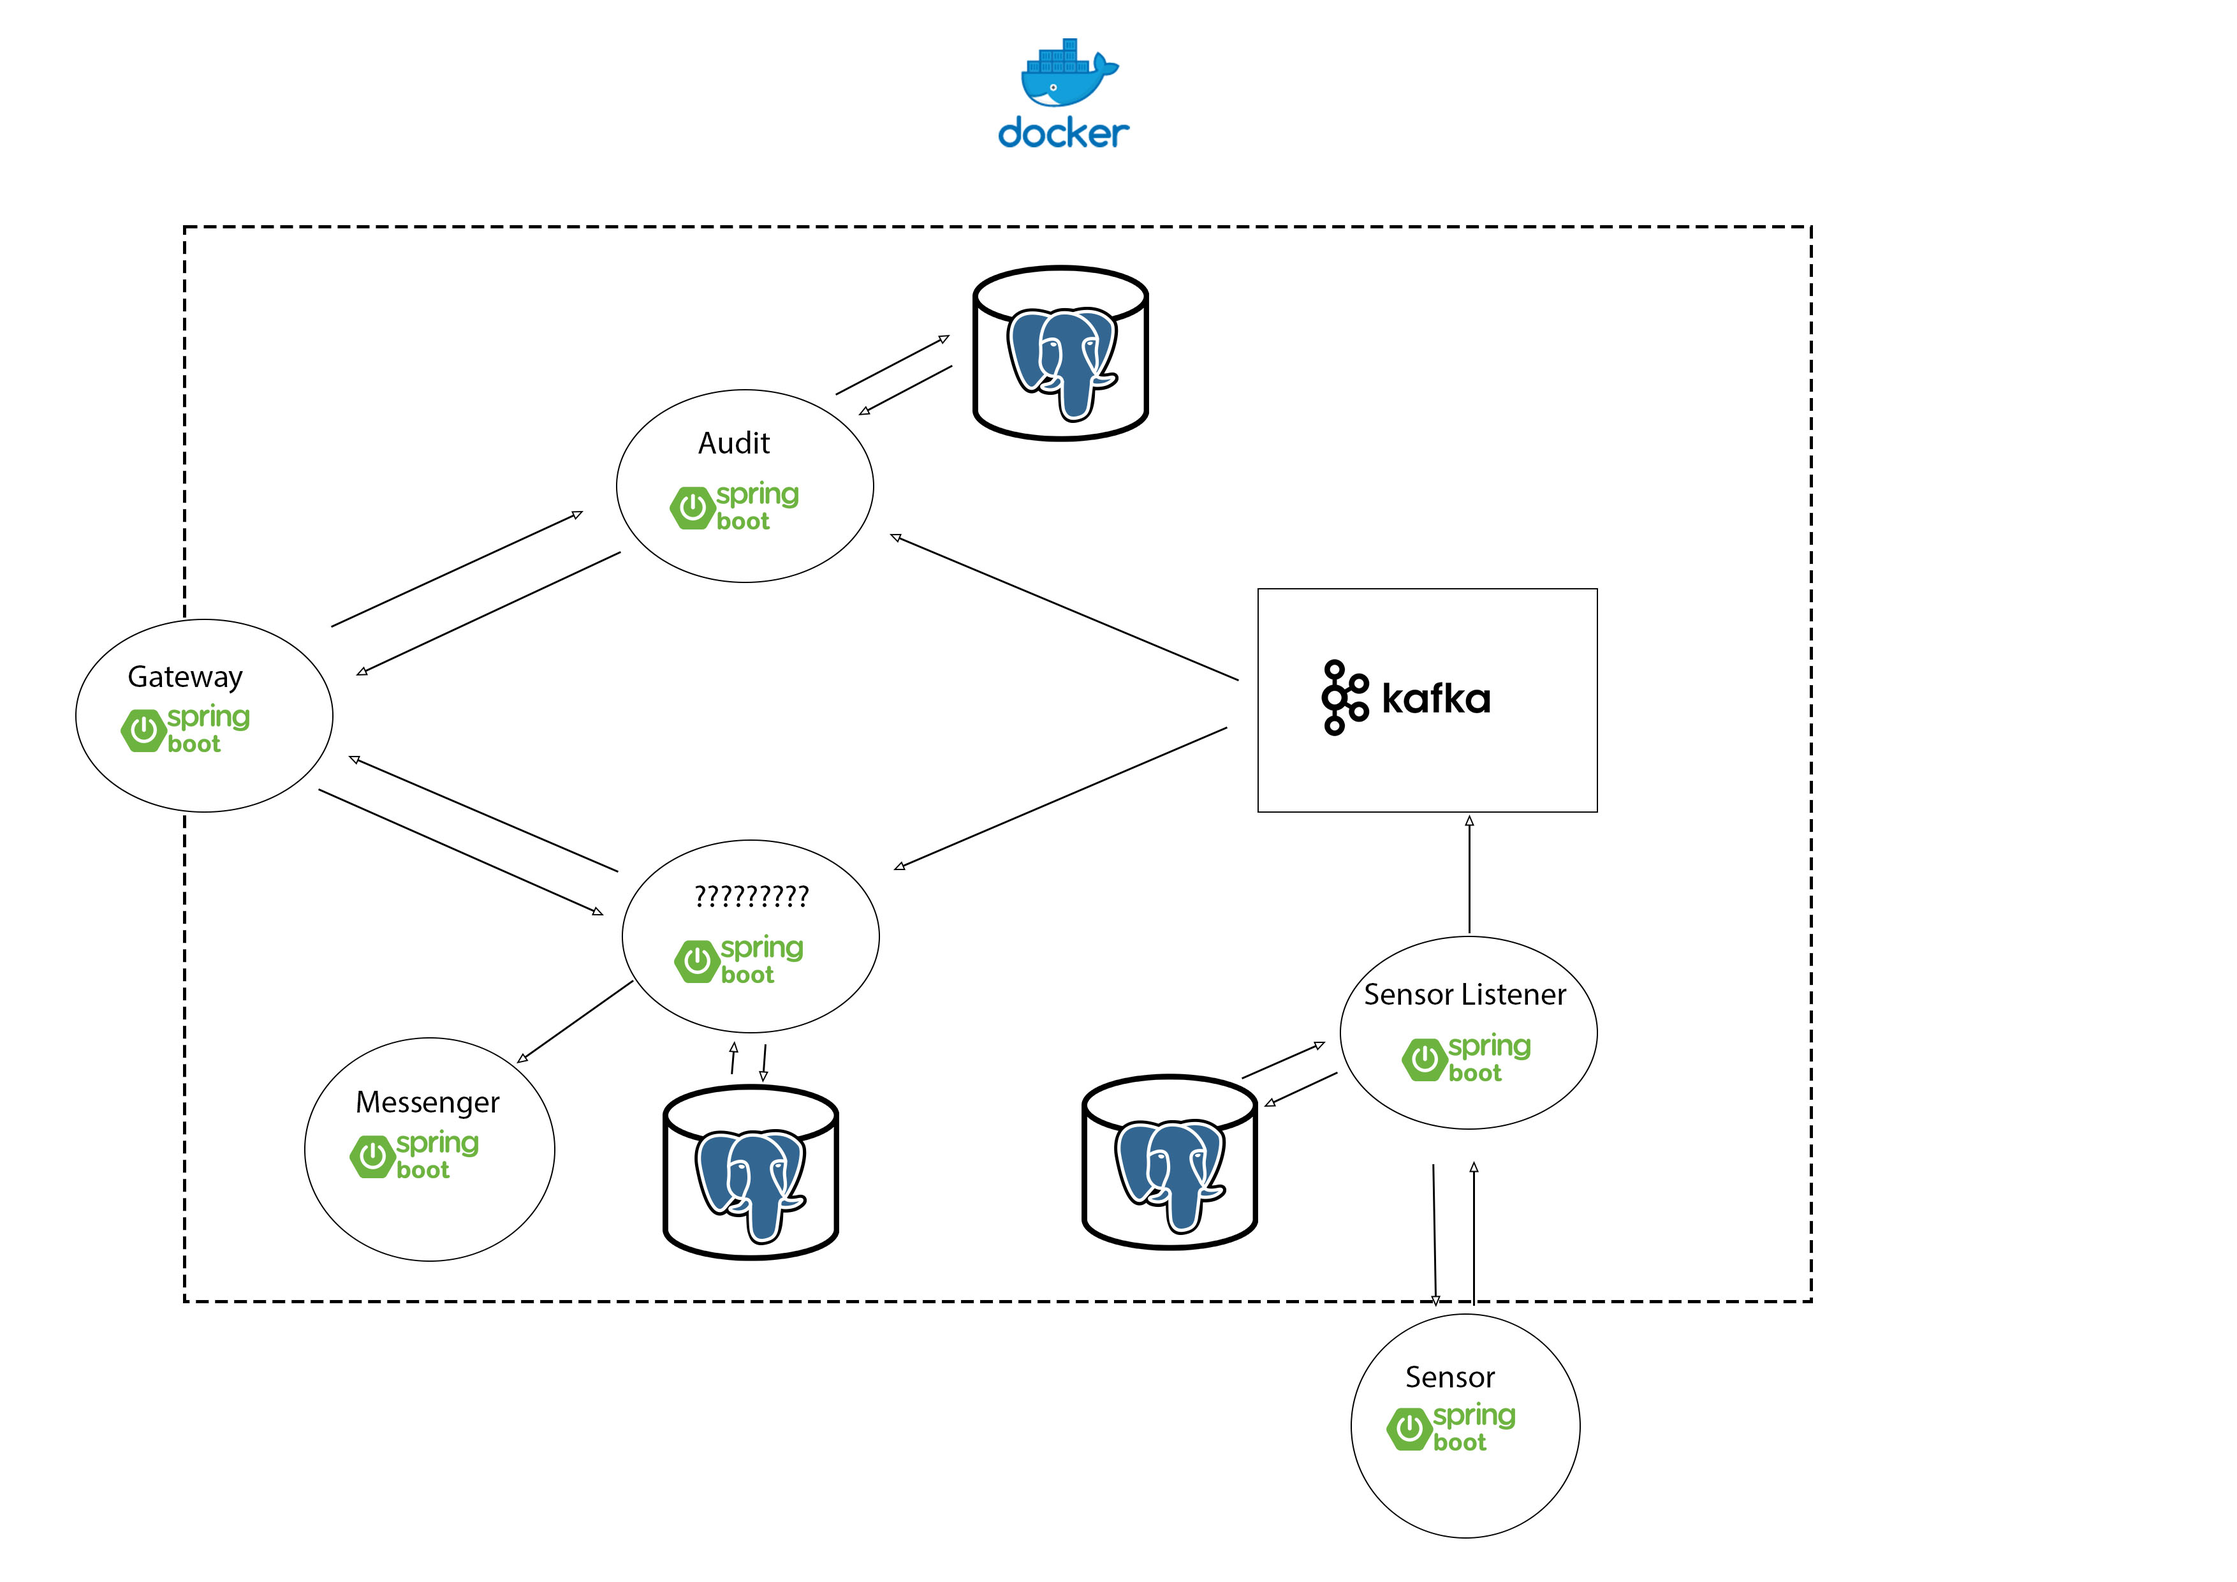
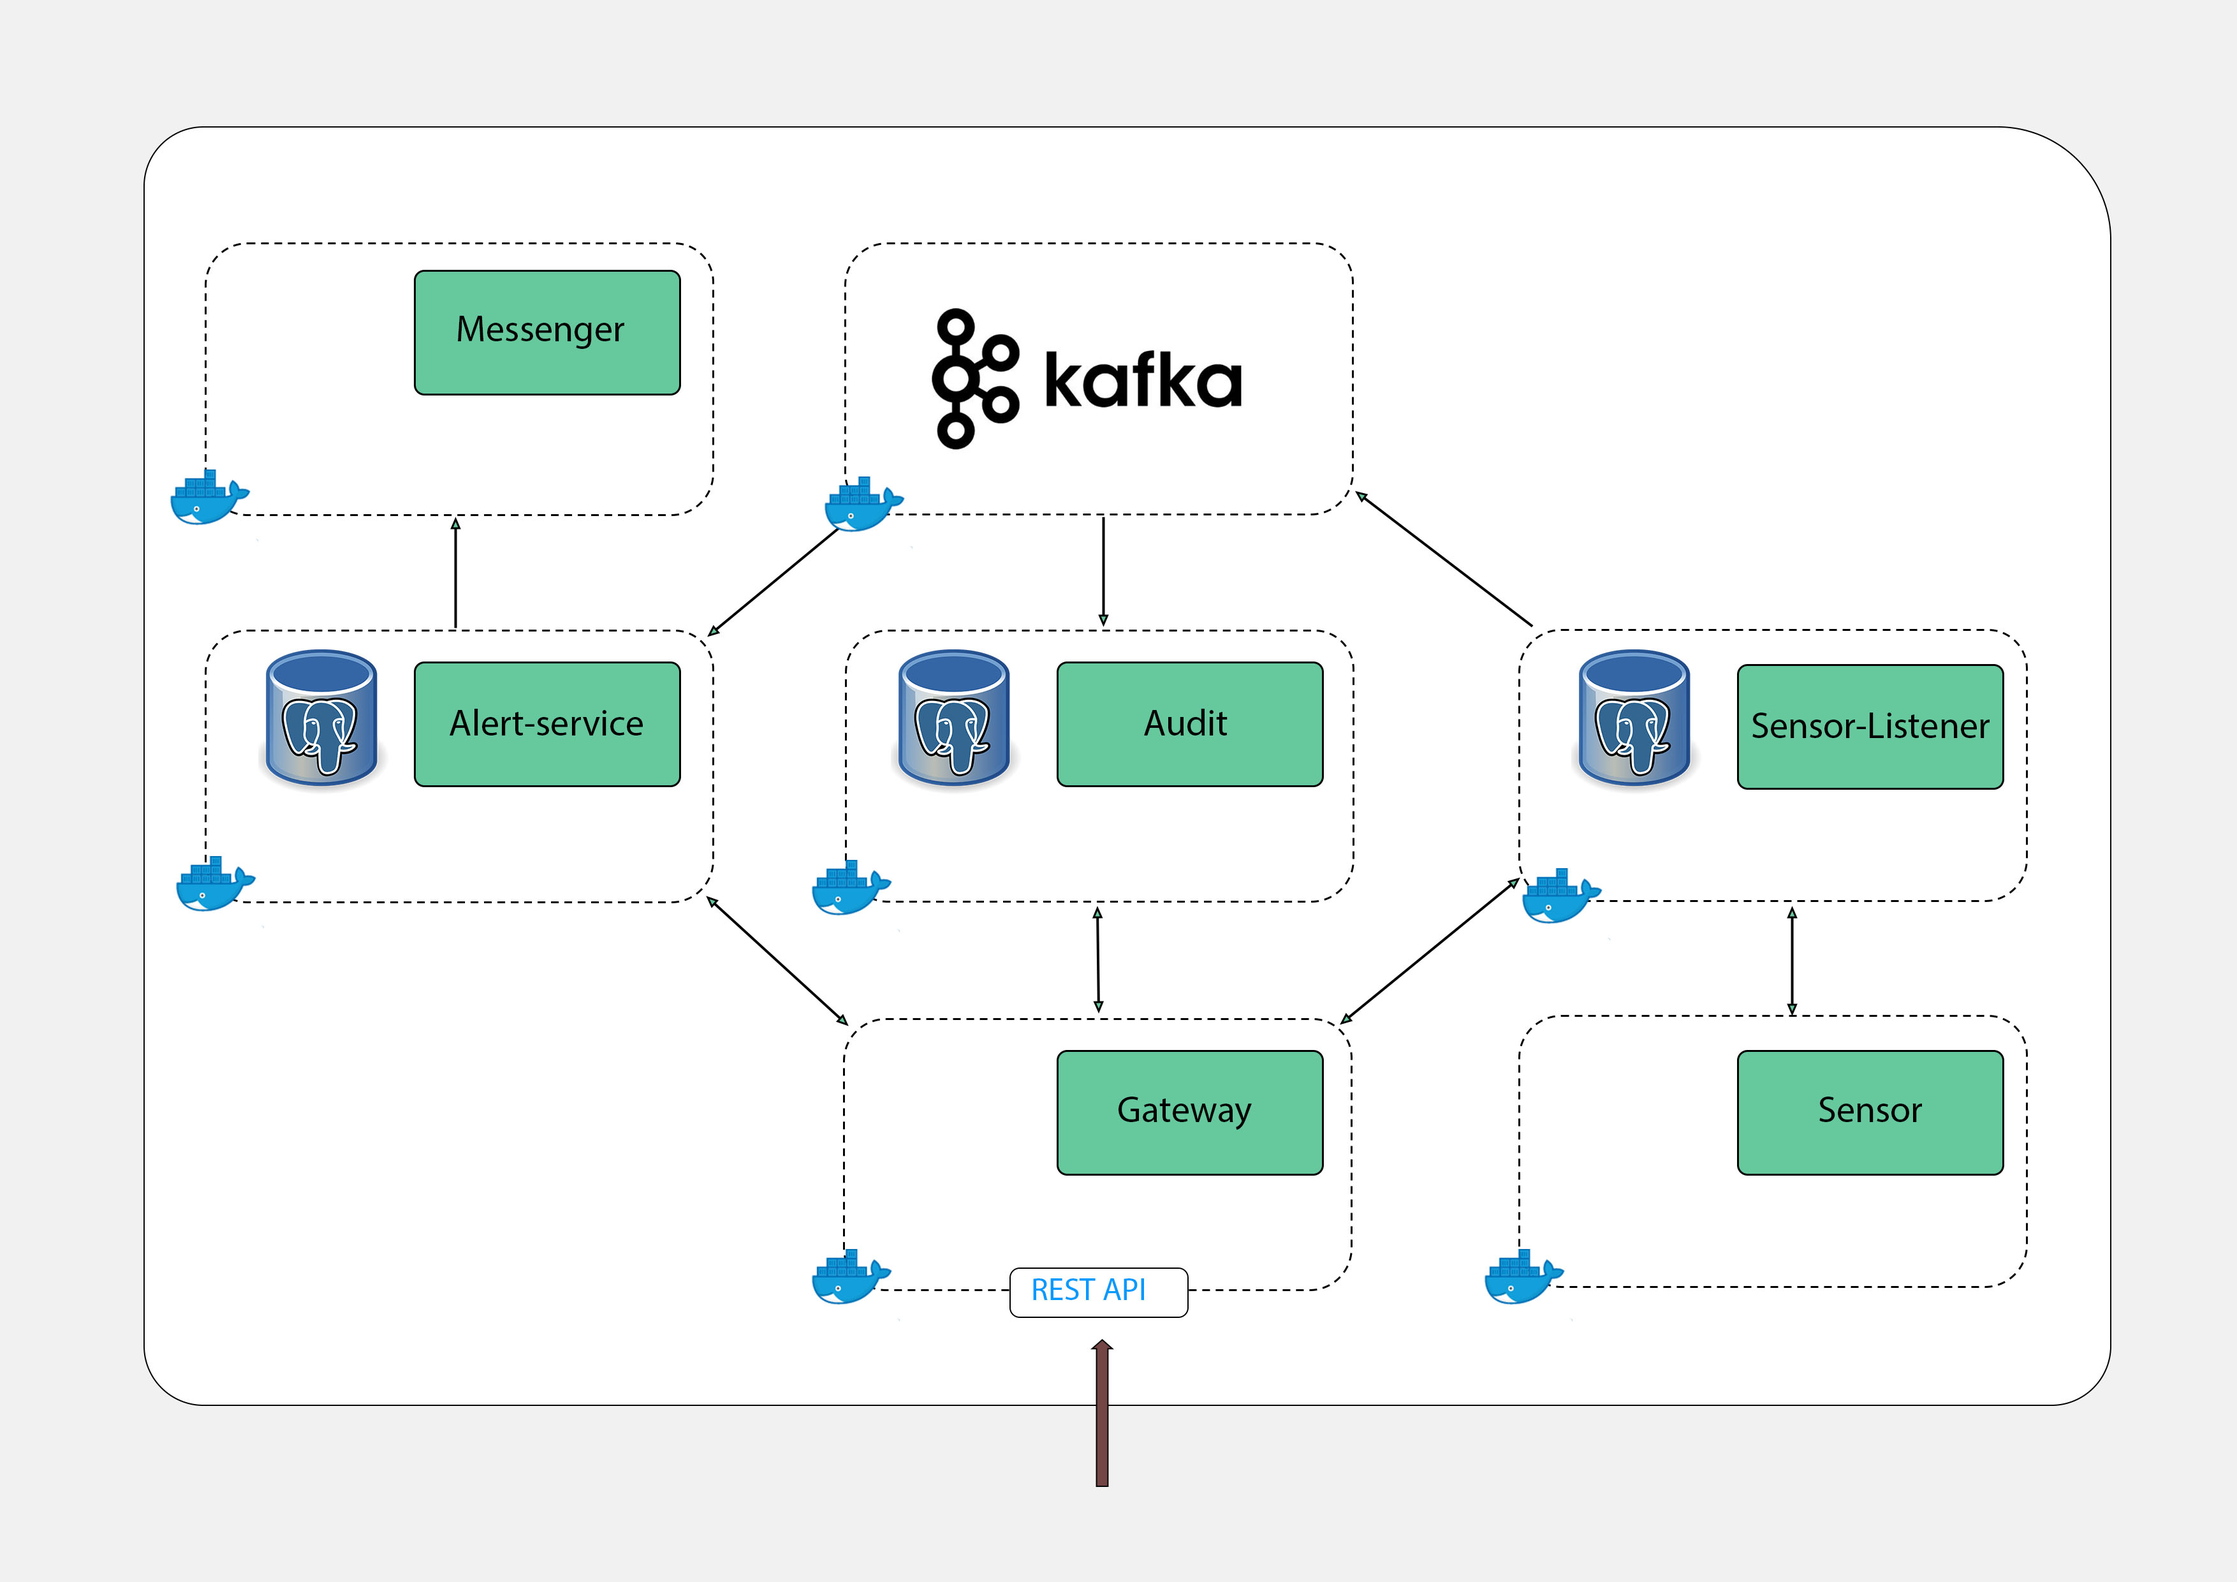
change Readmy.md

diff --git a/microservices/gateway-service/src/main/java/com/example/gatewayservice/config/SecurityConfiguration.java b/microservices/gateway-service/src/main/java/com/example/gatewayservice/config/SecurityConfiguration.java
@@ -2,21 +2,22 @@ package com.example.gatewayservice.config;
 
 import org.springframework.context.annotation.Bean;
 import org.springframework.context.annotation.Configuration;
+import org.springframework.security.config.Customizer;
 import org.springframework.security.config.annotation.web.builders.HttpSecurity;
 import org.springframework.security.config.annotation.web.configuration.EnableWebSecurity;
-import org.springframework.security.config.annotation.web.configuration.WebSecurityConfigurerAdapter;
 import org.springframework.security.core.userdetails.User;
 import org.springframework.security.core.userdetails.UserDetails;
 import org.springframework.security.core.userdetails.UserDetailsService;
 import org.springframework.security.crypto.password.PasswordEncoder;
 import org.springframework.security.provisioning.InMemoryUserDetailsManager;
+import org.springframework.security.web.SecurityFilterChain;
+import org.springframework.web.filter.CommonsRequestLoggingFilter;
 
 import static com.example.gatewayservice.config.ApplicationUserRole.ADMIN;
 
 @Configuration
 @EnableWebSecurity
-//todo: replace by FilterChain
-public class SecurityConfiguration extends WebSecurityConfigurerAdapter {
+public class SecurityConfiguration {
 
     private final PasswordEncoder passwordEncoder;
 
@@ -24,18 +25,6 @@ public class SecurityConfiguration extends WebSecurityConfigurerAdapter {
         this.passwordEncoder = passwordEncoder;
     }
 
-    @Override
-    protected void configure(HttpSecurity http) throws Exception {
-        http
-                .authorizeRequests()
-                .antMatchers("/gate/v1/**").hasRole(ADMIN.name())
-                .anyRequest()
-                .authenticated()
-                .and()
-                .formLogin();
-    }
-
-    @Override
     @Bean
     protected UserDetailsService userDetailsService() {
         UserDetails admin = User.builder()
@@ -45,5 +34,26 @@ public class SecurityConfiguration extends WebSecurityConfigurerAdapter {
                 .build();
 
         return new InMemoryUserDetailsManager(admin);
+    }
+
+    @Bean
+    public SecurityFilterChain filterChain(HttpSecurity http) throws Exception {
+        return http
+                .authorizeRequests(
+                        authorize -> authorize.anyRequest().hasRole(ADMIN.name())
+                )
+                .formLogin(Customizer.withDefaults())
+                .build();
+
+    }
+
+    @Bean
+    public CommonsRequestLoggingFilter requestLoggingFilter() {
+        CommonsRequestLoggingFilter loggingFilter = new CommonsRequestLoggingFilter();
+        loggingFilter.setIncludeClientInfo(true);
+        loggingFilter.setIncludeQueryString(true);
+        loggingFilter.setIncludePayload(true);
+        loggingFilter.setMaxPayloadLength(64000);
+        return loggingFilter;
     }
 }

diff --git a/microservices/gateway-service/src/main/java/com/example/gatewayservice/controller/SensorListenerController.java b/microservices/gateway-service/src/main/java/com/example/gatewayservice/controller/SensorListenerController.java
@@ -12,6 +12,7 @@ import org.springframework.web.bind.annotation.RequestMapping;
 import org.springframework.web.bind.annotation.RequestParam;
 import org.springframework.web.bind.annotation.RestController;
 
+import java.time.LocalDateTime;
 import java.util.List;
 
 import static org.springframework.http.MediaType.APPLICATION_JSON_VALUE;
@@ -36,10 +37,9 @@ public class SensorListenerController {
     @GetMapping(path = "/between", produces = APPLICATION_JSON_VALUE)
     @JsonView(Views.SensorData.class)
     public ResponseEntity<List<SensorData>> findSensorBetween(
-            @RequestParam("startWith") String startWith,
-            @RequestParam("endWith") String endWith,
+            @RequestParam("startWith") LocalDateTime startWith,
+            @RequestParam("endWith") LocalDateTime endWith,
             Pageable page) {
-        System.out.println(page + " " + startWith + " " + endWith);
         Page<SensorData> sensorBetween = sensorListenerClient.findSensorBetween(startWith, endWith, page);
         return ResponseEntity.ok(sensorBetween.getContent());
     }

diff --git a/microservices/gateway-service/src/main/java/com/example/gatewayservice/client/SensorListenerClient.java b/microservices/gateway-service/src/main/java/com/example/gatewayservice/client/SensorListenerClient.java
@@ -7,6 +7,8 @@ import org.springframework.data.domain.Pageable;
 import org.springframework.web.bind.annotation.GetMapping;
 import org.springframework.web.bind.annotation.RequestParam;
 
+import java.time.LocalDateTime;
+
 @FeignClient(name = "sensor-listener", url = "http://sensor-listener:8087")
 public interface SensorListenerClient {
 
@@ -15,7 +17,7 @@ public interface SensorListenerClient {
 
     @GetMapping("/sensor-listener/v1/sensors/between")
     Page<SensorData> findSensorBetween(
-            @RequestParam("startWith") String startWith,
-            @RequestParam("endWith") String endWith,
+            @RequestParam("startWith") LocalDateTime startWith,
+            @RequestParam("endWith") LocalDateTime endWith,
             Pageable page);
 }

diff --git a/README.md b/README.md
@@ -2,45 +2,197 @@
 
 <br/>
 <img src="/img/service-schema-v1.jpg">
+<h2>Системная архитектура:</h2>
+<table>
+<tr>
+<th>Компонент</th>
+<th>Платформа</th>
+<th>Функция</th>
+</tr>
+<tr>
+<td>Gateway</td>
+<td>Spring-Boot</td>
+<td>
+    <ul>
+        <li>генерация документации</li>
+        <li>валидация запросов</li>
+        <li>передача запроса на получение всех данных сенсора</li>
+        <li>передача запроса на получение данных сенсора в течение указанного времени</li>
+        <li>передача запроса на полученние кол-ва ошибок и отправленных в связи с ними оповещений</li>
+        <li>передача запроса на получение всех данных со статусом маркировки</li>
+    </ul>
+</td>
+</tr>
+<tr>
+<td>Sensor-Listener</td>
+<td>Spring-Boot</td>
+<td>
+    <ul>
+        <li>получение данных от Sensor</li>
+        <li>валидация полученных данных</li>
+        <li>сохранение полученных данных в базу данных</li>
+        <li>передача полученных данных с помощью Kafka</li>
+    </ul>
+</td>
+</tr>
+<tr>
+<td>Sensor</td>
+<td>Spring-Boot</td>
+<td>
+    <ul>
+        <li>имитация работы датчика</li>
+        <li>передача данных по каждому запросу</li>
+    </ul>
+</td>
+</tr>
+<tr>
+<td>Alert-Service</td>
+<td>Spring-Boot</td>
+<td>
+    <ul>
+        <li>получение данных из Kafka</li>
+        <li>сканирование полученных данных на наличие высоких показателей</li>
+        <li>сохранение данных с высокими показателями в базу данных</li>
+        <li>отправление оповещения в Messenger</li>
+        <li>выдача полученных данных по запросу</li>
+    </ul>
+</td>
+</tr>
+<tr>
+<td>Messenger</td>
+<td>Spring-Boot</td>
+<td>
+    <ul>
+        <li>получение оповещения от Alert-service</li>
+        <li>отправка оповещения на определенные адреса</li>
+    </ul>
+</td>
+</tr>
+<tr>
+<td>Audit</td>
+<td>Spring-Boot</td>
+<td>
+    <ul>
+        <li>получение данных из Kafka</li>
+        <li>обработка полученых данных, присвоение соответсвующей маркировки</li>
+        <li>сохранение обработанных данных в базе данных</li>
+        <li>выдача сохраненных данных по запросу</li>
+    </ul>
+</td>
+</tr>
+</table>
 
-<h3>Description: </h2>
-<ol>
-<li>gateway</li>
-<li>audit - service</li>
-<li>???????</li>
-<li>service - messenger</li>
-<li>sensor - listener</li>
-<li>sensor</li>
-</ol>
+[//]: # (///////////////////////////////////////////////////////)
+<h2>Агрегаты:</h2>
+<h3>Sensor - Listener BD (PostgresQL) </h3>
+<h4>Table: SENSOR_METRICS </h4>
+<table>
+<tr>
+    <th>Поле</th>
+    <th>Описание</th>
+    <th>Тип</th>
+    <th>Обязательность</th>
+</tr>
+<tr>
+    <td>id</td>
+    <td>Идентефикатор</td>
+    <td></td>
+    <td>Да</td>
+</tr>
+<tr>
+    <td>sensor_id</td>
+    <td>Название</td>
+    <td>Строка</td>
+    <td>Да</td>
+</tr>
+<tr>
+    <td>sensor_data</td>
+    <td>Данные измерения</td>
+    <td>Число</td>
+    <td>Да</td>
+</tr>
+<tr>
+    <td>timestamp</td>
+    <td>Дата измерения</td>
+    <td>Время</td>
+    <td>Да</td>
+</tr>
+</table>
+
+<h3>Alert - Service BD (PostgresQL) </h3>
+<h4>Table: SENSOR </h4>
+<table>
+<tr>
+    <th>Поле</th>
+    <th>Описание</th>
+    <th>Тип</th>
+    <th>Обязательность</th>
+</tr>
+<tr>
+    <td>id</td>
+    <td>Идентефикатор</td>
+    <td></td>
+    <td>Да</td>
+</tr>
+<tr>
+    <td>sensor_name</td>
+    <td>Название</td>
+    <td>Строка</td>
+    <td>Да</td>
+</tr>
+<tr>
+    <td>sensor_data</td>
+    <td>Данные измерения</td>
+    <td>Число</td>
+    <td>Да</td>
+</tr>
+<tr>
+    <td>timestamp</td>
+    <td>Дата измерения</td>
+    <td>Время</td>
+    <td>Да</td>
+</tr>
+<tr>
+    <td>status</td>
+    <td>Маркер состояния</td>
+    <td>Строка</td>
+    <td>Да</td>
+</tr>
+</table>
+
+<h3>Alert - Service BD (PostgresQL) </h3>
+<h4>Table: SENSOR</h4>
+<table>
+<tr>
+    <th>Поле</th>
+    <th>Описание</th>
+    <th>Тип</th>
+    <th>Обязательность</th>
+</tr>
+<tr>
+    <td>id</td>
+    <td>Идентефикатор</td>
+    <td></td>
+    <td>Да</td>
+</tr>
+<tr>
+    <td>sensor_id</td>
+    <td>Название</td>
+    <td>Строка</td>
+    <td>Да</td>
+</tr>
+<tr>
+    <td>sensor_data</td>
+    <td>Данные измерения</td>
+    <td>Число</td>
+    <td>Да</td>
+</tr>
+<tr>
+    <td>timestamp</td>
+    <td>Дата измерения</td>
+    <td>Время</td>
+    <td>Да</td>
+</tr>
+</table>
 
 
-<h3>gateway:</h3>
-<pre>
-    Gateway accepts a request and validates it, then distributes it to internal services.
-</pre>
-<h3>Audit - service:</h3>
-<pre>
-    Audit listens to the Kafka and, depending on a sensorValue assigns one of statuses:  
-       NORMAL = 0 - 30  
-       LOADED = 31 - 60  
-       FAILED = 61 - 100
-    Then it stores data in the postgres bd, which one's using partition data by statuses.
-</pre>
-<h3>???????:</h3>
-<pre>
-    Listens to Kafka, if its message contains a sensorValue that equals 100,
-    stores data in bd and sends a request to the messenger.
-</pre>
-<h3>Messenger:</h3>
-<pre>
-    Messenger just merely sends message to a certain email
-</pre>
-<h3>Sensor - listener:</h3>
-<pre>
-    Every one second Sensor-listener requests data from sensor than stores it in the Postgres db and 
-    sends it by kafka to other services.
-</pre>
-<h3>Sensor:</h3>
-<pre>
-    For each request Sensor creates random sensorValue in a range between 0 and 100.  
-</pre>
